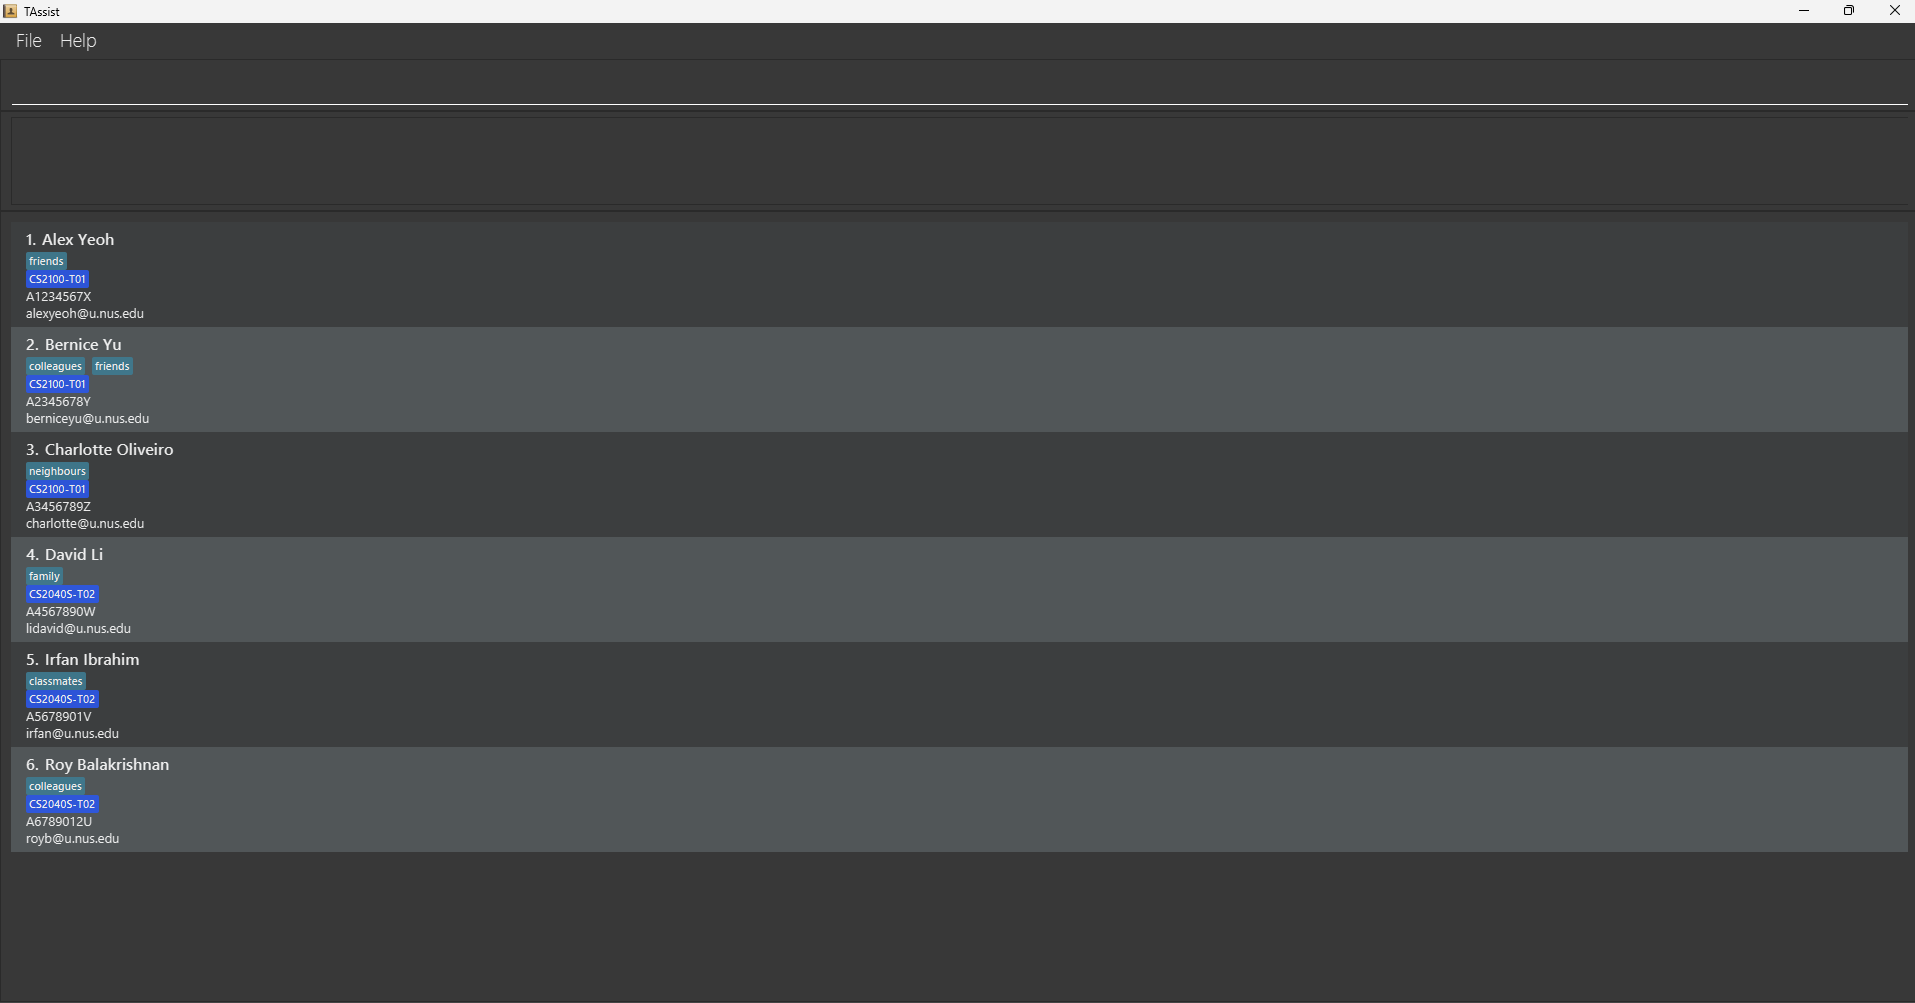
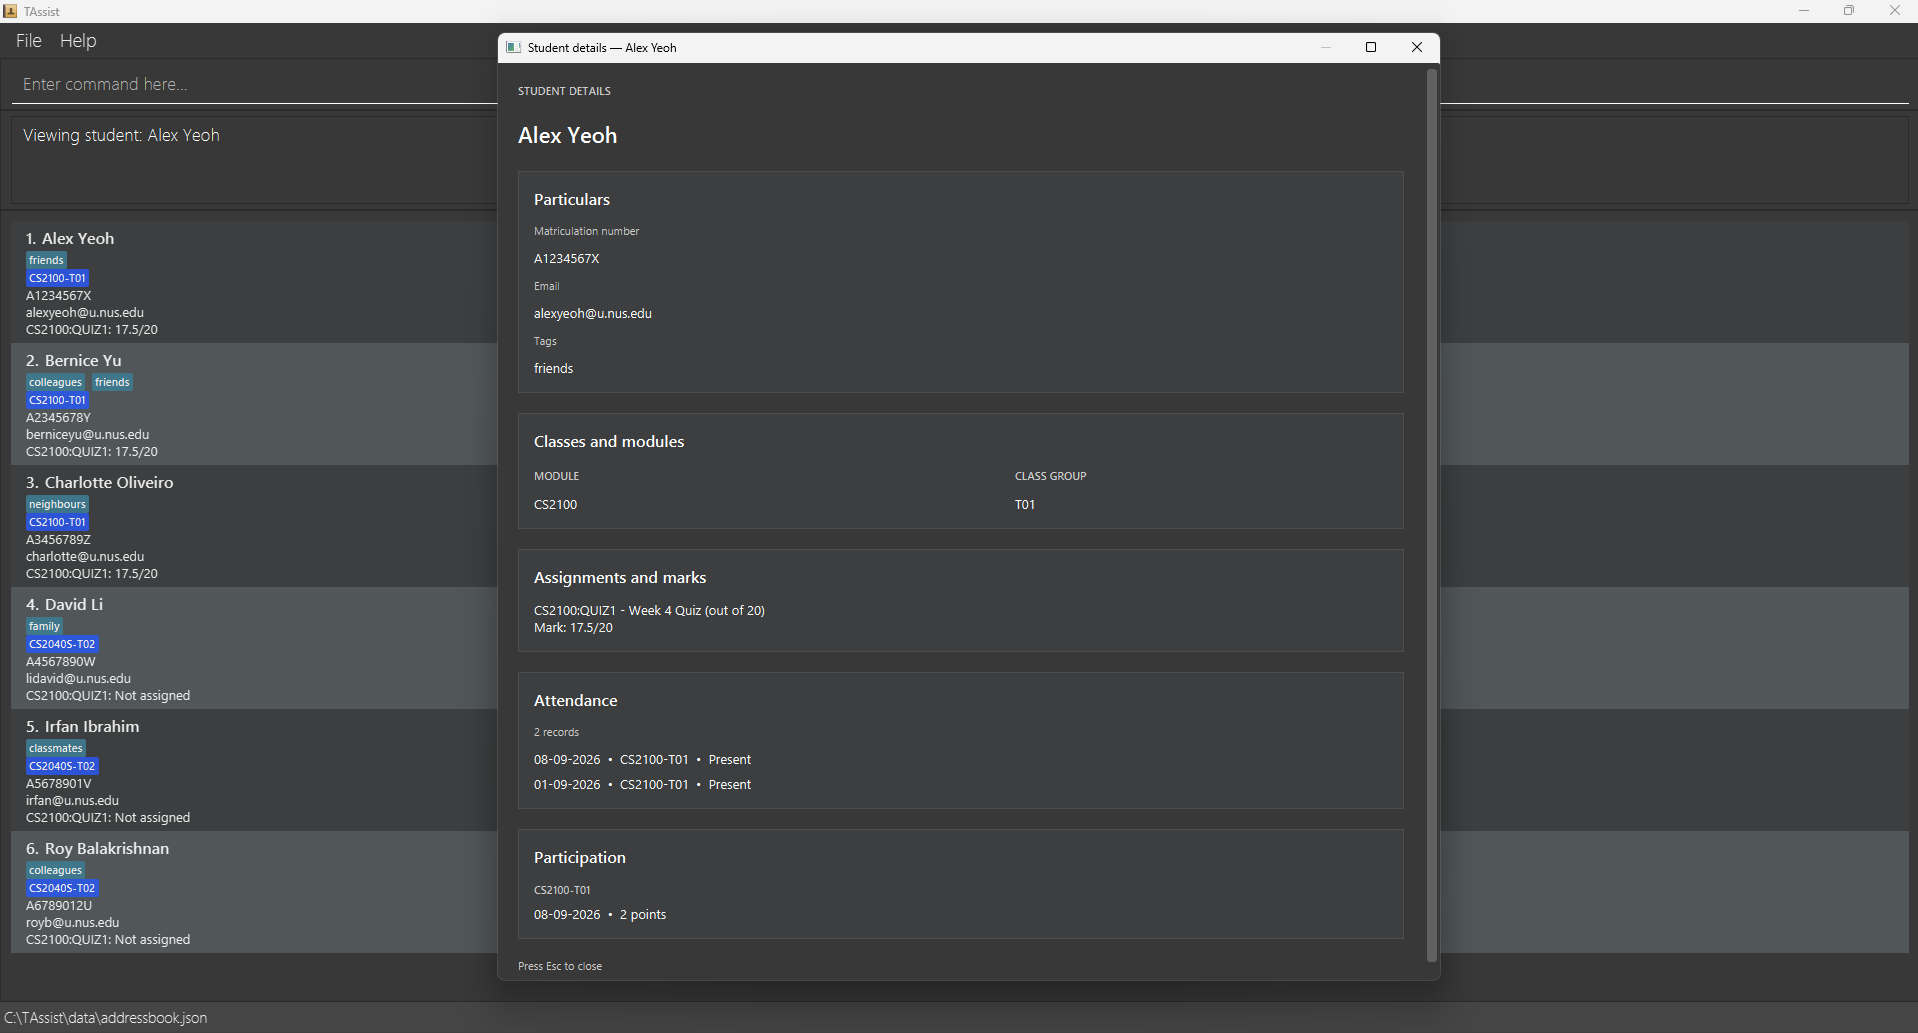
Address sample data review feedback
Rename the sample student helper and correct continuation indentation.
Fix the Developer Guide's expected email sort order.

Retake Ui.png to show academic records and the full data path.

Refs #234

diff --git a/src/main/java/seedu/address/model/util/SampleDataUtil.java b/src/main/java/seedu/address/model/util/SampleDataUtil.java
@@ -34,23 +34,23 @@ public class SampleDataUtil {
      */
     public static Person[] getSamplePersons() {
         return new Person[] {
-            samplePerson(new Name("Alex Yeoh"), new MatriculationNumber("A1234567X"),
-                new Email("alexyeoh@u.nus.edu"), getTagSet("friends"), "CS2100-T01"),
-            samplePerson(new Name("Bernice Yu"), new MatriculationNumber("A2345678Y"),
-                new Email("berniceyu@u.nus.edu"), getTagSet("colleagues", "friends"), "CS2100-T01"),
-            samplePerson(new Name("Charlotte Oliveiro"), new MatriculationNumber("A3456789Z"),
-                new Email("charlotte@u.nus.edu"), getTagSet("neighbours"), "CS2100-T01"),
-            samplePerson(new Name("David Li"), new MatriculationNumber("A4567890W"),
-                new Email("lidavid@u.nus.edu"), getTagSet("family"), "CS2040S-T02"),
-            samplePerson(new Name("Irfan Ibrahim"), new MatriculationNumber("A5678901V"),
-                new Email("irfan@u.nus.edu"), getTagSet("classmates"), "CS2040S-T02"),
-            samplePerson(new Name("Roy Balakrishnan"), new MatriculationNumber("A6789012U"),
-                new Email("royb@u.nus.edu"), getTagSet("colleagues"), "CS2040S-T02")
+            createSamplePerson(new Name("Alex Yeoh"), new MatriculationNumber("A1234567X"),
+                    new Email("alexyeoh@u.nus.edu"), getTagSet("friends"), "CS2100-T01"),
+            createSamplePerson(new Name("Bernice Yu"), new MatriculationNumber("A2345678Y"),
+                    new Email("berniceyu@u.nus.edu"), getTagSet("colleagues", "friends"), "CS2100-T01"),
+            createSamplePerson(new Name("Charlotte Oliveiro"), new MatriculationNumber("A3456789Z"),
+                    new Email("charlotte@u.nus.edu"), getTagSet("neighbours"), "CS2100-T01"),
+            createSamplePerson(new Name("David Li"), new MatriculationNumber("A4567890W"),
+                    new Email("lidavid@u.nus.edu"), getTagSet("family"), "CS2040S-T02"),
+            createSamplePerson(new Name("Irfan Ibrahim"), new MatriculationNumber("A5678901V"),
+                    new Email("irfan@u.nus.edu"), getTagSet("classmates"), "CS2040S-T02"),
+            createSamplePerson(new Name("Roy Balakrishnan"), new MatriculationNumber("A6789012U"),
+                    new Email("royb@u.nus.edu"), getTagSet("colleagues"), "CS2040S-T02")
         };
     }
 
-    private static Person samplePerson(Name name, MatriculationNumber matriculationNumber, Email email,
-                                      Set<Tag> tags, String classCode) {
+    private static Person createSamplePerson(Name name, MatriculationNumber matriculationNumber, Email email,
+            Set<Tag> tags, String classCode) {
         ClassCode enrolledClass = new ClassCode(classCode);
         Attendance attendance = new Attendance(List.of(
                 new AttendanceRecord(new AttendanceDate("01-09-2026"), enrolledClass),

diff --git a/docs/DeveloperGuide.md b/docs/DeveloperGuide.md
@@ -1295,7 +1295,7 @@ Start in a fresh test folder with the original sample students. Run `unenroll 1 
       Expected: Students appear in descending matriculation number order. Roy Balakrishnan appears first.
 
    1. Run `sort email asc`.<br>
-      Expected: Students appear in ascending email order. Alex Yeoh appears first, followed by Roy Balakrishnan.
+      Expected: Students appear in ascending email order. Alex Yeoh appears first, followed by Bernice Yu; Roy Balakrishnan appears last.
 
    1. Run `list`.<br>
       Expected: Students return to alphabetical name order.
